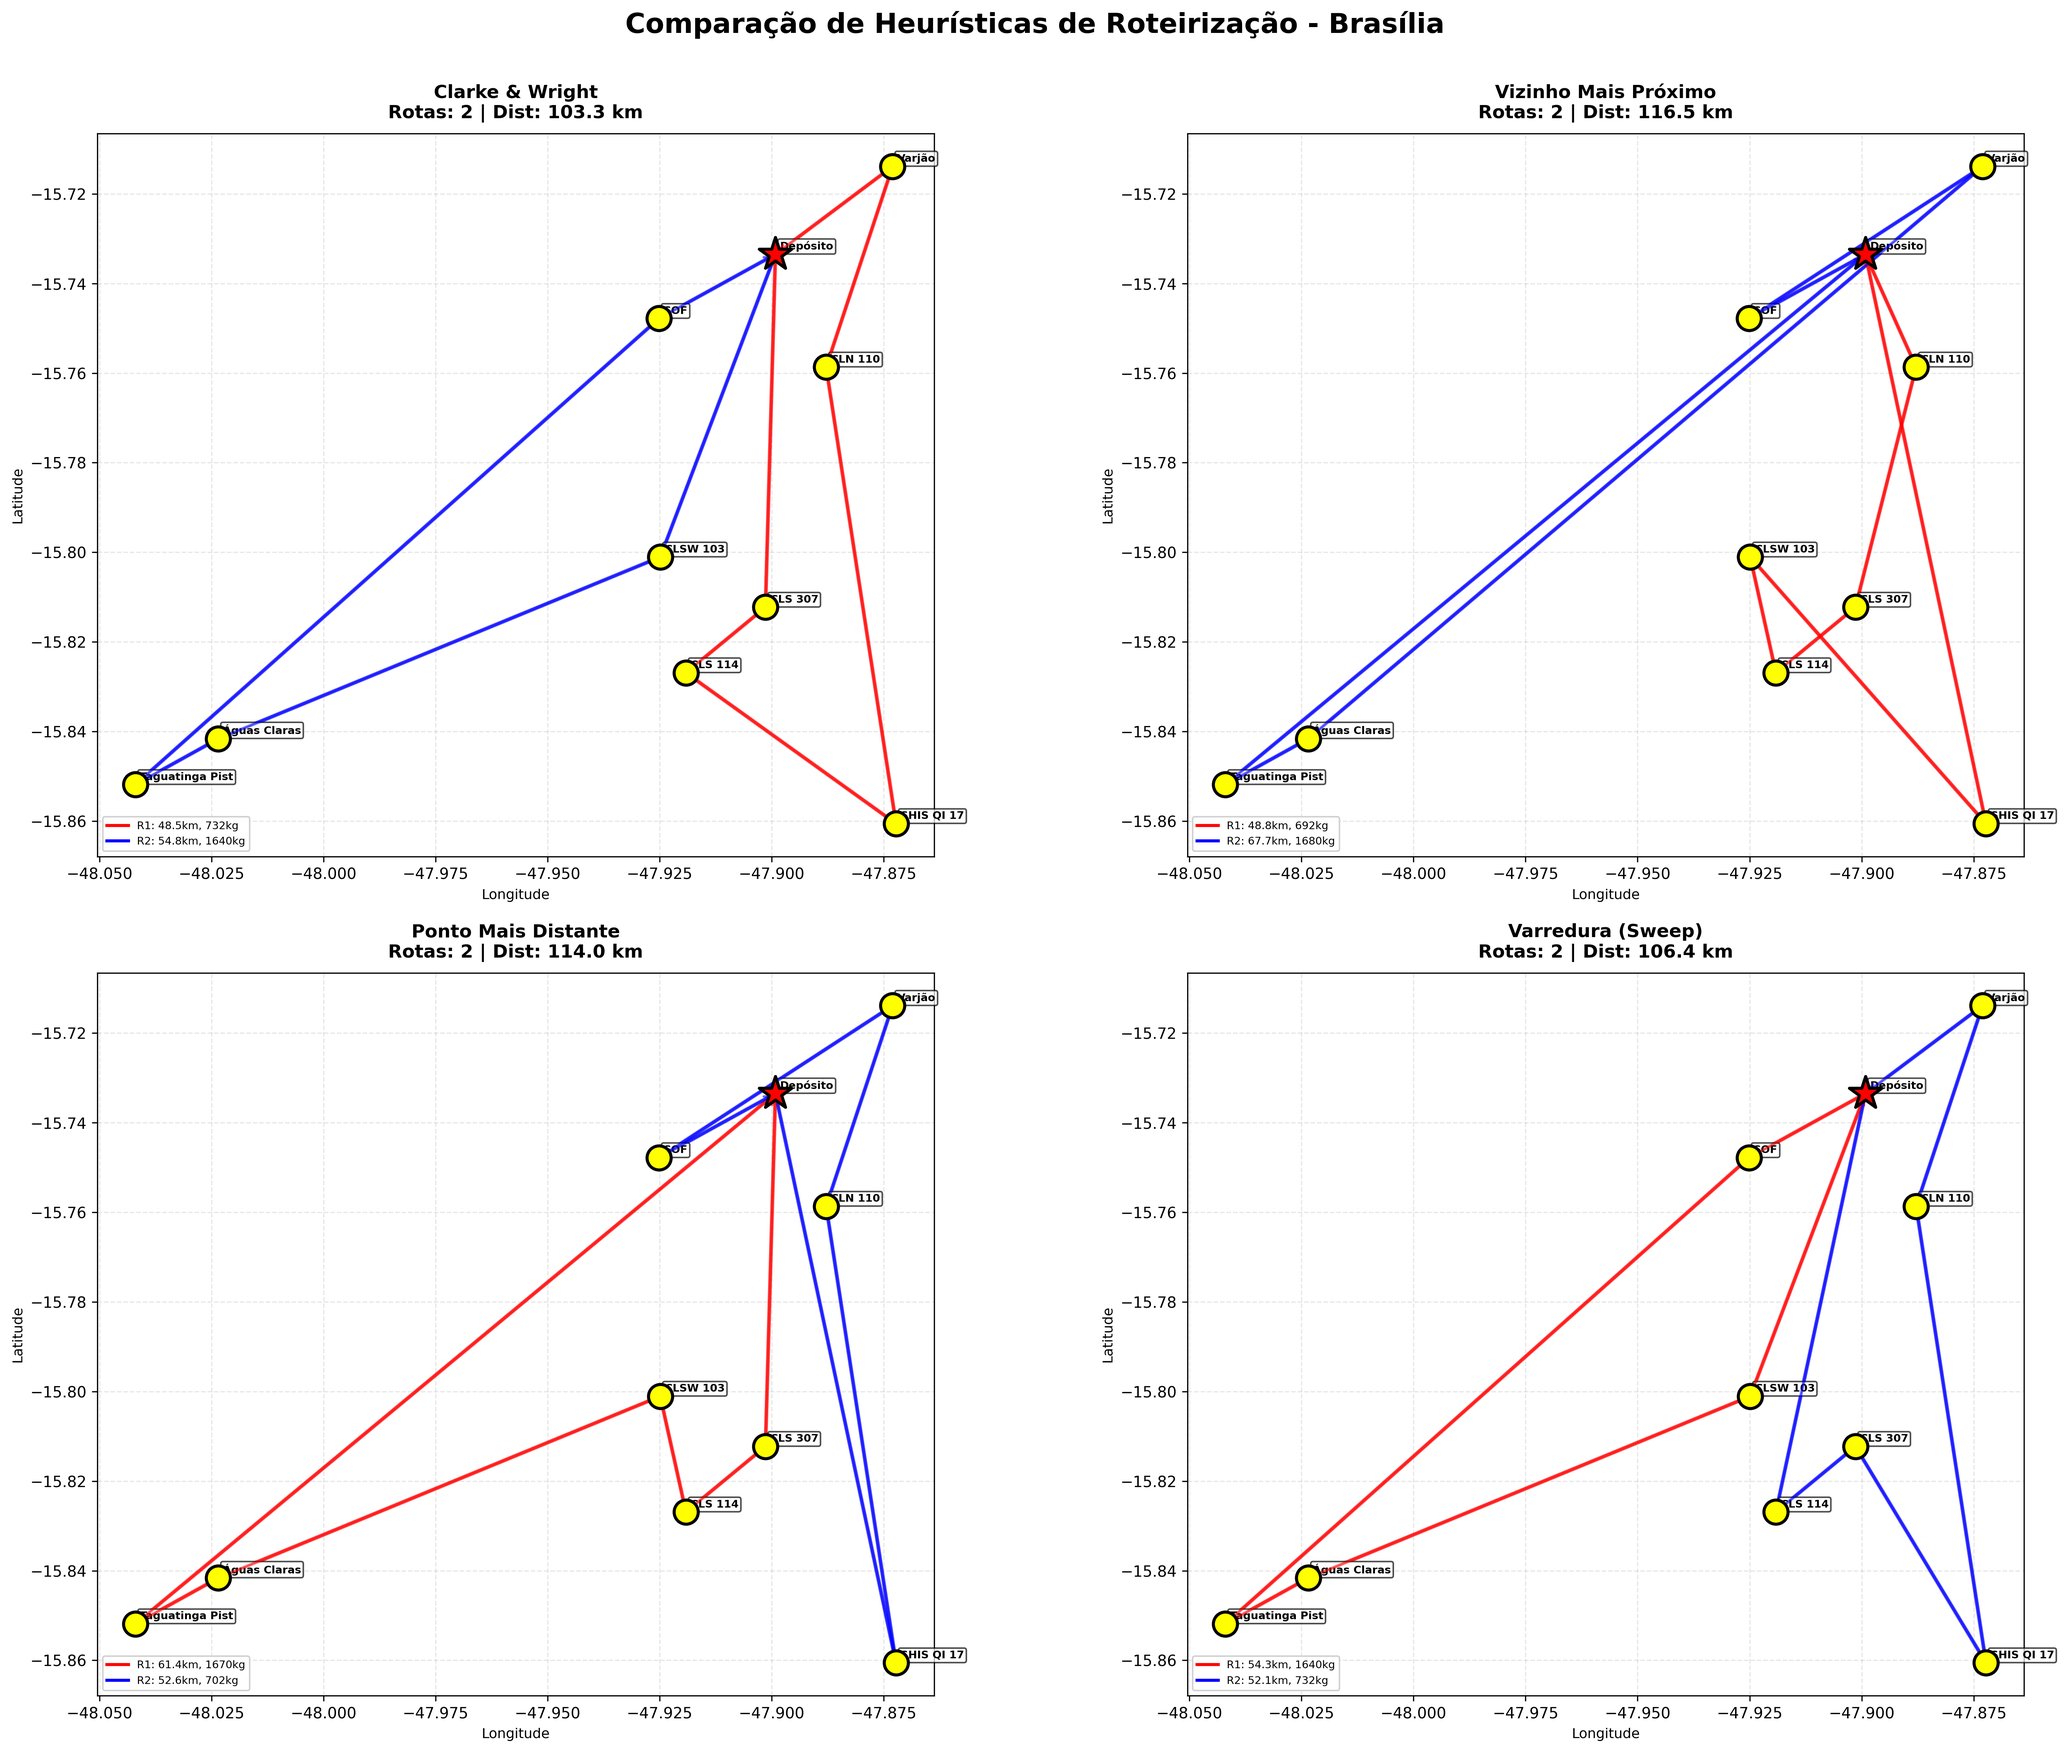
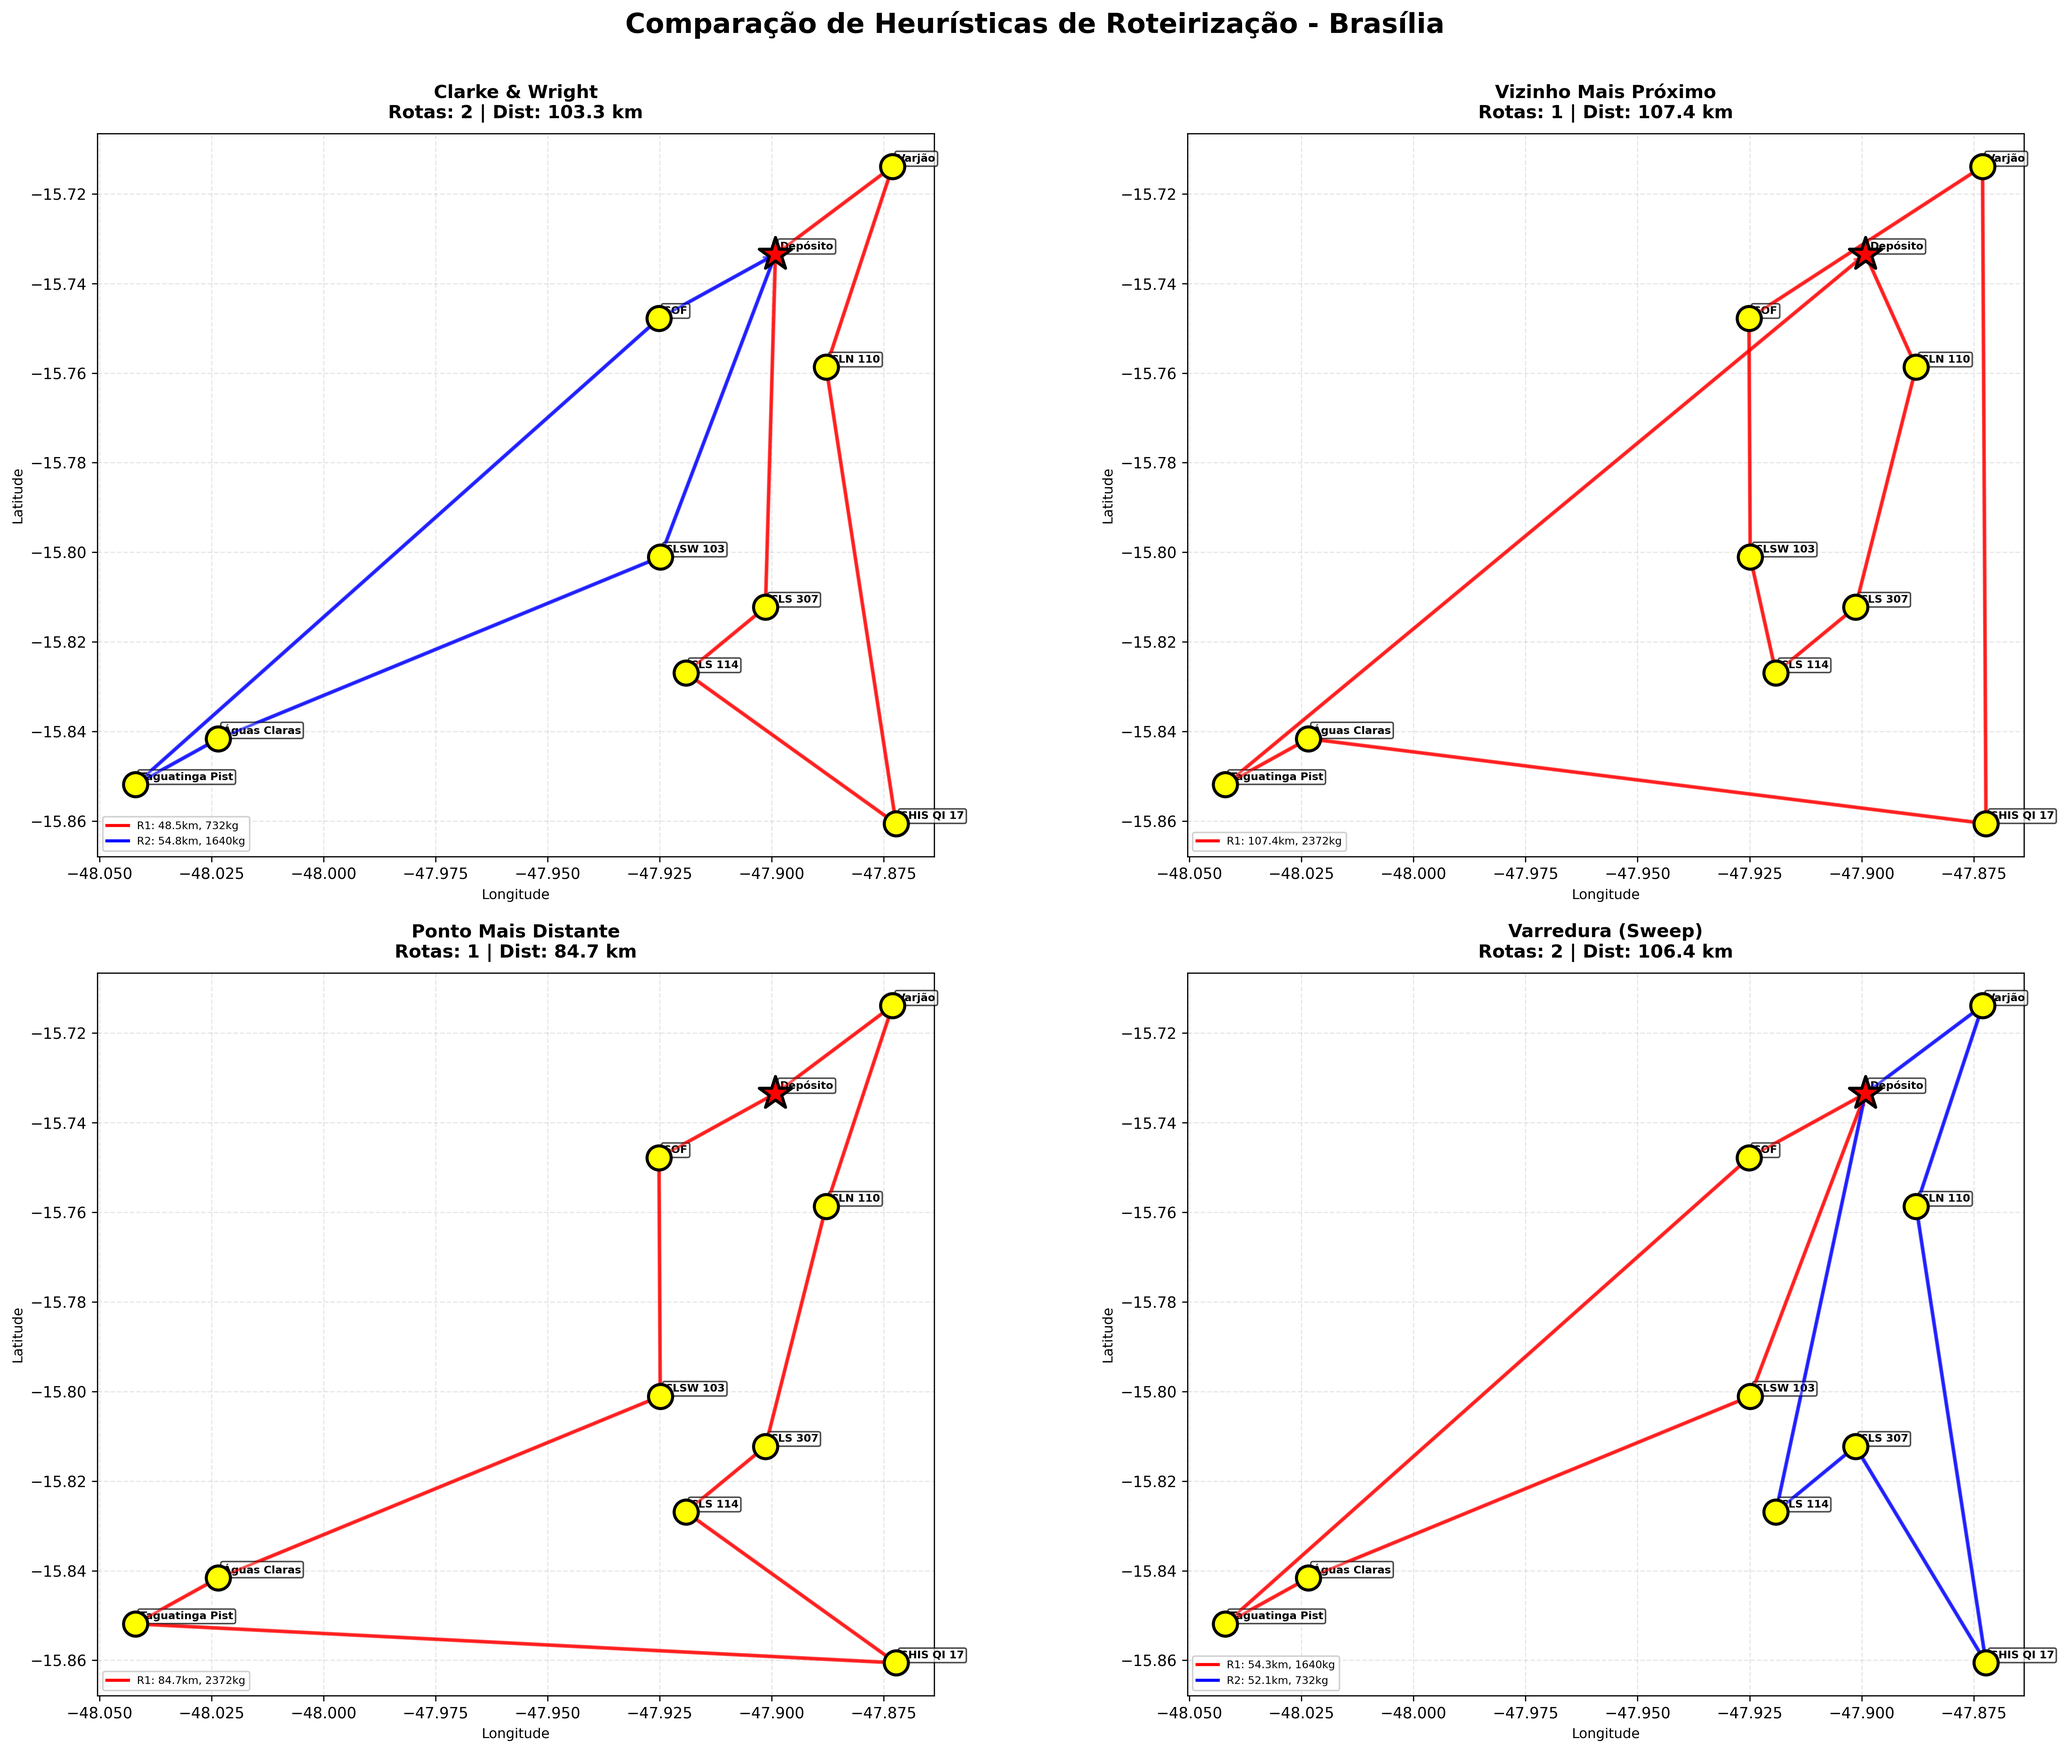
fix farthest_neighbor_routes; as it doesn't follow rules, its result is "better"

diff --git a/run.py b/run.py
@@ -246,64 +246,65 @@ def nearest_neighbor_routes():
 
 # 2) Farthest Neighbor (Ponto Mais Distante)
 def farthest_neighbor_routes():
-    """Começa com o cliente mais distante do depósito."""
+    """Sempre escolhe o cliente mais distante do ponto atualmente mais distante já na rota e o insere na melhor posição da rota."""
     routes = []
     remaining = set(ids) - {0}
 
     while remaining:
-        route = [0]
+        route = [0, 0]  # Começar com depósito -> depósito
         current_load = 0
         current_time = 0
 
-        # Começar com o cliente mais distante do depósito
-        farthest = max(remaining, key=lambda x: dist_km[id_to_index[0], id_to_index[x]])
-        route.append(farthest)
-        current_load += clientes[farthest]["demanda"]
-        current_time += (
-            time_min[id_to_index[0], id_to_index[farthest]]
-            + clientes[farthest]["descarga"]
-        )
-        remaining.remove(farthest)
-
-        current = route[-1]
+        # começar no depósito
+        current = 0
 
         while remaining:
-            best = None
-            best_dist = float("inf")
+            # Encontrar o cliente mais distante do depósito
+            farthest = max(
+                remaining, key=lambda x: dist_km[id_to_index[current], id_to_index[x]]
+            )
 
-            for candidate in remaining:
-                demand = clientes[candidate]["demanda"]
-                if current_load + demand > CAPACIDADE:
-                    continue
+            # Encontrar a melhor posição para inserir este cliente
+            best_position = 1
+            best_cost_increase = float("inf")
 
-                i_curr = id_to_index[current]
-                i_cand = id_to_index[candidate]
-                i_depot = id_to_index[0]
+            for pos in range(1, len(route)):
+                # Cliente anterior e posterior na posição de inserção
+                prev_client = route[pos - 1]
+                next_client = route[pos]
 
-                time_to_cand = time_min[i_curr, i_cand]
-                time_cand_to_depot = time_min[i_cand, i_depot]
-                descarga = clientes[candidate]["descarga"]
+                # Calcular o aumento de custo ao inserir o cliente nesta posição
+                old_cost = dist_km[id_to_index[prev_client], id_to_index[next_client]]
+                new_cost = (
+                    dist_km[id_to_index[prev_client], id_to_index[farthest]]
+                    + dist_km[id_to_index[farthest], id_to_index[next_client]]
+                )
+                cost_increase = new_cost - old_cost
 
-                new_time = current_time + time_to_cand + descarga + time_cand_to_depot
+                if cost_increase < best_cost_increase:
+                    best_cost_increase = cost_increase
+                    best_position = pos
 
-                if new_time <= TEMPO_MAX_DIA_MIN:
-                    dist = dist_km[i_curr, i_cand]
-                    if dist < best_dist:
-                        best_dist = dist
-                        best = candidate
-
-            if best is None:
+            # Se não conseguir inserir em nenhuma posição, terminar esta rota
+            if best_cost_increase == float("inf"):
                 break
 
-            route.append(best)
-            current_load += clientes[best]["demanda"]
-            i_curr = id_to_index[current]
-            i_best = id_to_index[best]
-            current_time += time_min[i_curr, i_best] + clientes[best]["descarga"]
-            current = best
-            remaining.remove(best)
+            # Inserir o cliente na melhor posição
+            route.insert(best_position, farthest)
+            current_load += clientes[farthest]["demanda"]
 
-        route.append(0)
+            # Recalcular tempo total da rota
+            # tempo de carga do depósito no início
+            current_time = clientes[0]["descarga"]
+            for i in range(len(route) - 1):
+                current_time += time_min[
+                    id_to_index[route[i]], id_to_index[route[i + 1]]
+                ]
+                if route[i] != 0:  # Adicionar tempo de descarga (exceto depósito)
+                    current_time += clientes[route[i]]["descarga"]
+
+            remaining.remove(farthest)
+
         routes.append(route)
 
     return routes
